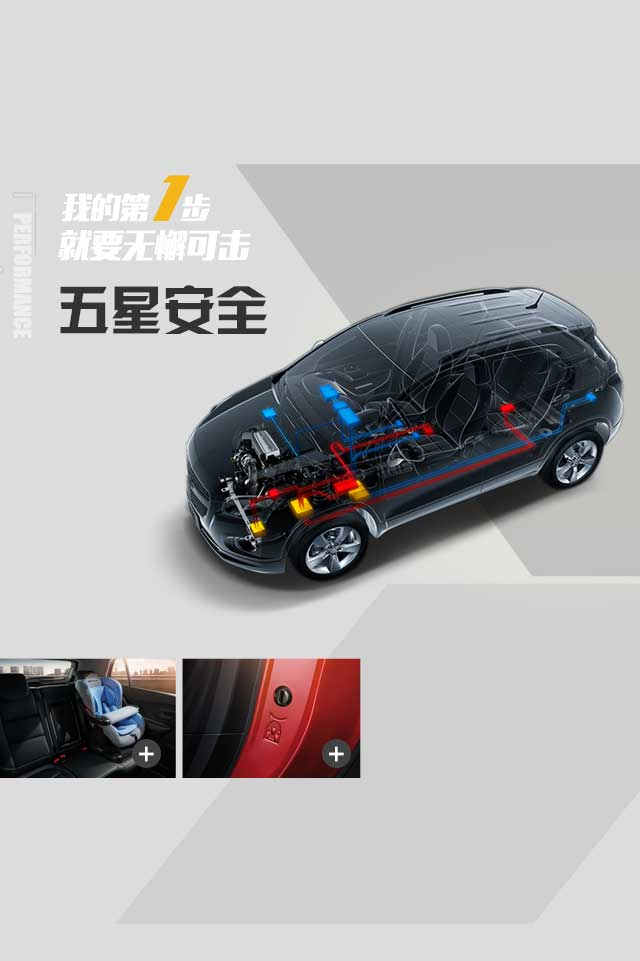
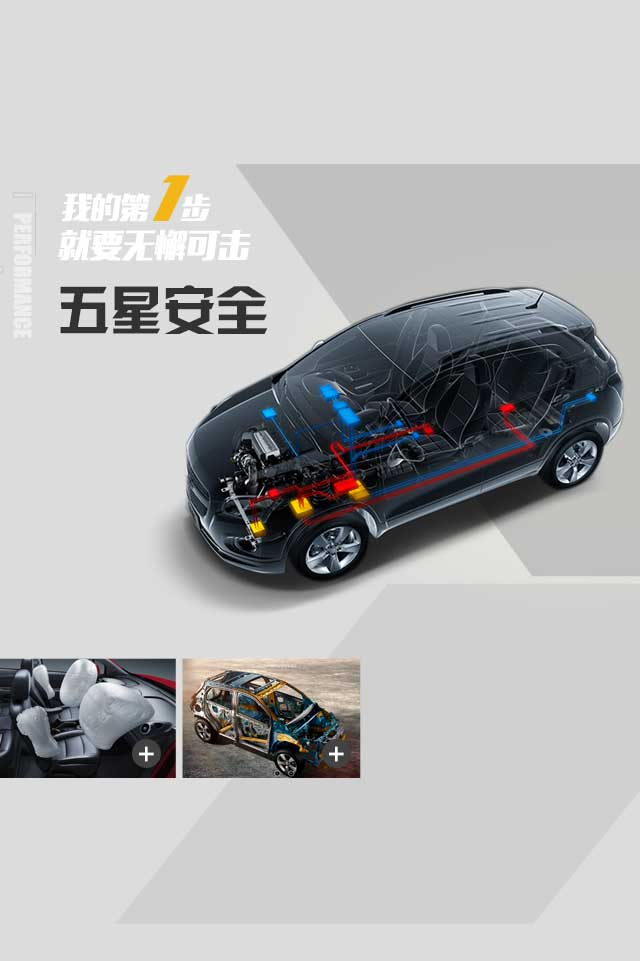
坑爹的图片 修改

Changed region(s): [[0.0, 0.6868, 0.5625, 0.8117]]

diff --git a/car-trax.html b/car-trax.html
@@ -45,7 +45,7 @@
 			</div>
 			<div class="hide_video_3 hide_video" style="display: none">
 				<video id="video_3" class="video-js vjs-default-skin" preload="none" poster="" width="100%" height="100%" data-setup="{}">
-					<source src="http://www.chevrolet.com.cn/brandsite/youku/getVideo.ashx?vid=XNjk5NDgzNjAw&format=mp4" type="video/mp4">
+					<source src="http://www.chevrolet.com.cn/brandsite/youku/getVideo2014.ashx?vid=XNzYxNjA5ODM2&format=mp4" type="video/mp4">
 				</video>
 			</div>
 			<!--
@@ -143,11 +143,7 @@
 										</div>
 										<div class="pic pic_2">
 											<a class="aLightPic aPic2" target="_blank" href="img/trax/big_pic/big/4/5.jpg" data-word="美式肌肉轮眉"></a>
-											
-											<!--
 											<a class="aLightPic hide" target="_blank" href="img/trax/big_pic/big/4/4.jpg" data-word="流畅利落车顶线条 一体式刀锋行李架"></a>
-											-->
-											
 											<a class="aLightPic hide" target="_blank" href="img/trax/big_pic/big/4/2.jpg" data-word="酷锐盾型双格栅 硬朗线条切割车头"></a>
 											<a class="aLightPic aPic1" target="_blank" href="img/trax/big_pic/big/4/6.jpg" data-word="战骁式18寸超大轮毂"></a>
 											<!--
@@ -199,14 +195,14 @@
 								<div class="clr cmnBox box5" id="box5">
 									<div class="cnt">
 										<div class="pic pic_1">
+											<a class="aLightPic aPic1" target="_blank" href="img/trax/big_pic/big/3/4.jpg" data-word="全方位安全气囊"></a>
 											
-											<a class="aLightPic  aPic1" target="_blank" href="img/trax/big_pic/big/3/2.jpg" data-word="ISOFIX儿童安全座椅固定装置"></a>
 										</div>
 										<div class="pic pic_2">
-											<a class="aLightPic  aPic2" target="_blank" href="img/trax/big_pic/big/3/3.jpg" data-word="后门儿童安全锁"></a>
-											<a class="aLightPic hide" target="_blank" href="img/trax/big_pic/big/3/1.jpg" data-word="BFI安全车身设计"></a>
+											<a class="aLightPic aPic2" target="_blank" href="img/trax/big_pic/big/3/1.jpg" data-word="BFI安全车身设计"></a>
+											<a class="aLightPic hide" target="_blank" href="img/trax/big_pic/big/3/3.jpg" data-word="后门儿童安全锁"></a>
+											<a class="aLightPic hide" target="_blank" href="img/trax/big_pic/big/3/2.jpg" data-word="ISOFIX儿童安全座椅固定装置"></a>
 											<a class="aLightPic hide" target="_blank" href="img/trax/big_pic/big/2/3.jpg" data-word="外后视镜电加热"></a>
-											<a class="aLightPic hide" target="_blank" href="img/trax/big_pic/big/3/4.jpg" data-word="全方位安全气囊"></a>
 											<a class="aLightPic hide" target="_blank" href="img/trax/big_pic/big/3/5.jpg" data-word="全系标配ESC电子车身稳定系统"></a>
 										</div>
 									</div>
@@ -215,12 +211,11 @@
 								<div class="clr cmnBox box6" id="box6">
 									<div class="cnt">
 										<div class="pic pic_1">
-											<a class="aLightPic aPic1" target="_blank" href="img/trax/big_pic/big/2/10.jpg" data-word="整车25处储物空间-7"></a>
-											
+											<a class="aLightPic aPic1" target="_blank" href="img/trax/big_pic/big/2/1.jpg" data-word="大容量灵活行李箱"></a>
 										</div>
 										<div class="pic pic_2">
-											<a class="aLightPic aPic2" target="_blank" href="img/trax/big_pic/big/4/4.jpg" data-word="流畅利落车顶线条 一体式刀锋行李架"></a>
-											<a class="aLightPic hide" target="_blank" href="img/trax/big_pic/big/2/1.jpg" data-word="大容量灵活行李箱"></a>
+											<a class="aLightPic aPic2" target="_blank" href="img/trax/big_pic/big/2/11.jpg" data-word="整车25处储物空间-8"></a>
+											<a class="aLightPic hide" target="_blank" href="img/trax/big_pic/big/2/10.jpg" data-word="整车25处储物空间-7"></a>
 											<a class="aLightPic hide" target="_blank" href="img/trax/big_pic/big/2/2.jpg" data-word="后车窗锁止功能"></a>
 											<a class="aLightPic hide" target="_blank" href="img/trax/big_pic/big/2/4.jpg" data-word="整车25处储物空间-1"></a>
 											<a class="aLightPic hide" target="_blank" href="img/trax/big_pic/big/6/5.jpg" data-word="大容量内部空间"></a>
@@ -229,7 +224,7 @@
 											<a class="aLightPic hide" target="_blank" href="img/trax/big_pic/big/2/7.jpg" data-word="整车25处储物空间-4"></a>
 											<a class="aLightPic hide" target="_blank" href="img/trax/big_pic/big/2/8.jpg" data-word="整车25处储物空间-5"></a>
 											<a class="aLightPic hide" target="_blank" href="img/trax/big_pic/big/2/9.jpg" data-word="整车25处储物空间-6"></a>
-											<a class="aLightPic  hide" target="_blank" href="img/trax/big_pic/big/2/11.jpg" data-word="整车25处储物空间-8"></a>
+											
 										</div>
 									</div>
 								</div>
